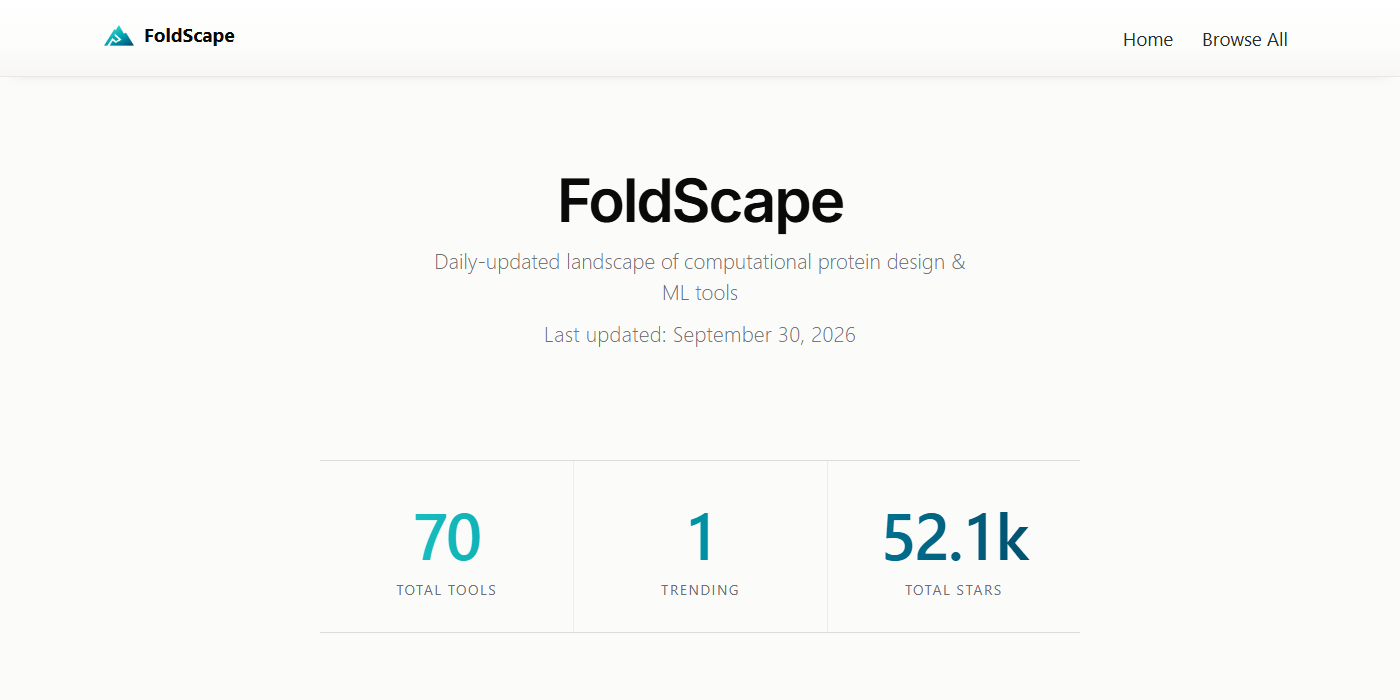
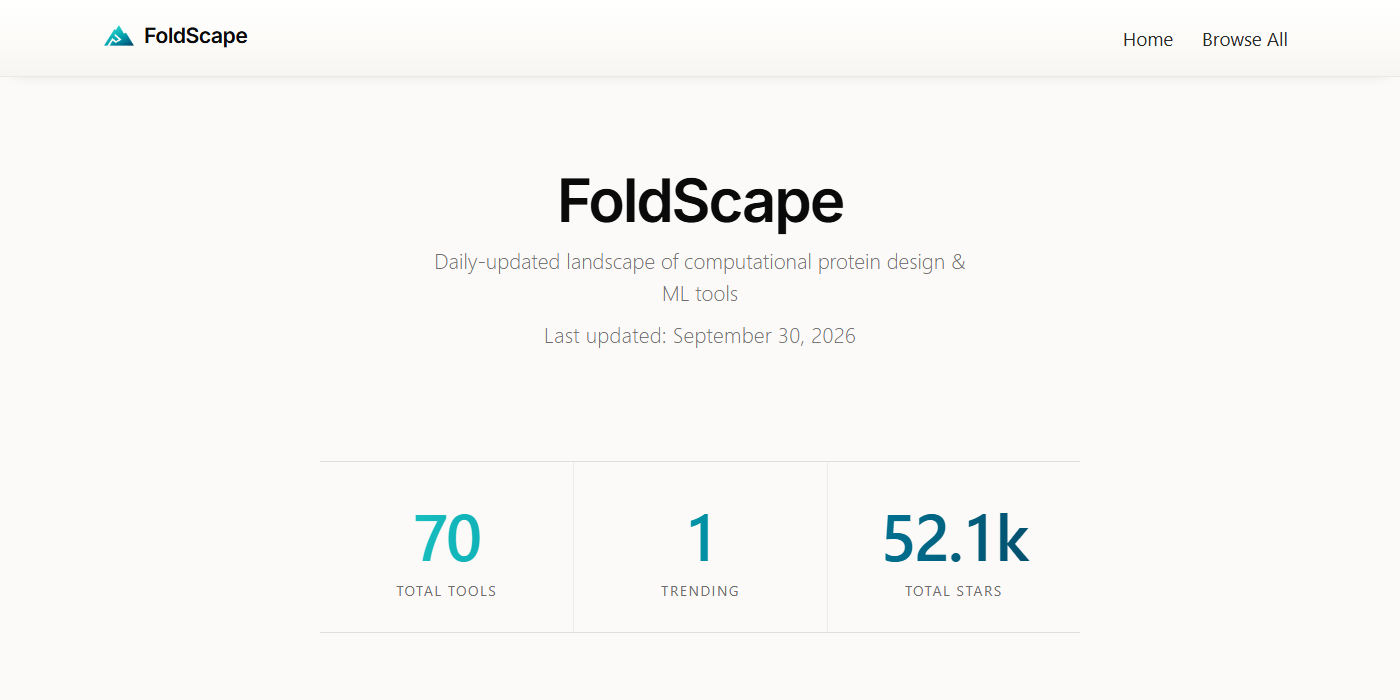
set the header wordmark in Inter, refresh README screenshot

diff --git a/site/index.html b/site/index.html
@@ -334,9 +334,14 @@
         .topbar nav li { list-style: none; margin: 0; }
         .topbar nav li::before { content: none; }
 
+        /* The wordmark: same Inter semibold, same tight tracking as the hero,
+           the README banner and the share card — one name, one face. */
         .topbar nav ul:first-child strong {
+            font-family: 'Inter', system-ui, sans-serif;
+            font-weight: 600;
+            font-size: 1.0625rem;
+            letter-spacing: -0.025em;
             color: var(--ink);
-            letter-spacing: 0.005em;
         }
 
         .topbar nav a {

diff --git a/site/tools.html b/site/tools.html
@@ -272,9 +272,14 @@
         .topbar nav li { list-style: none; margin: 0; }
         .topbar nav li::before { content: none; }
 
+        /* The wordmark: same Inter semibold, same tight tracking as the hero,
+           the README banner and the share card — one name, one face. */
         .topbar nav ul:first-child strong {
+            font-family: 'Inter', system-ui, sans-serif;
+            font-weight: 600;
+            font-size: 1.0625rem;
+            letter-spacing: -0.025em;
             color: var(--ink);
-            letter-spacing: 0.005em;
         }
 
         .topbar nav a {
